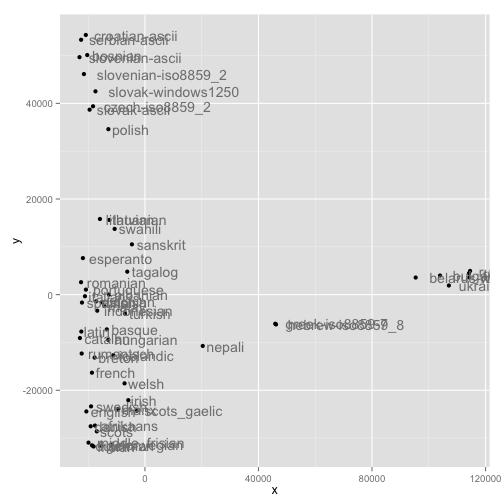
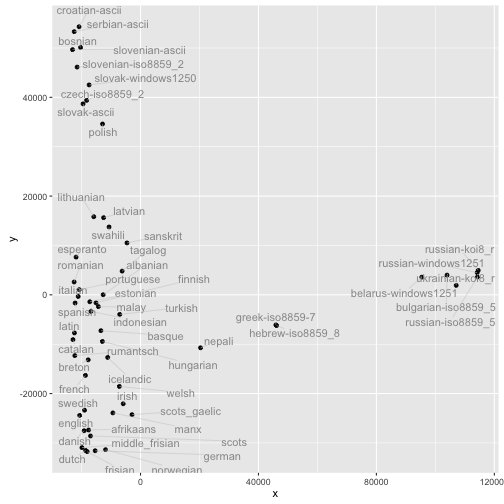
edited blog in response to timvink suggestion of library(ggrepel) to solve overlapping labels

Changed region(s): [[0.0298, 0.0, 1.0, 0.9821], [0.744, 0.7738, 0.7738, 0.8036], [0.744, 0.1786, 0.7738, 0.2083]]

diff --git a/_posts/2016-01-06-StarWarsBlog.md b/_posts/2016-01-06-StarWarsBlog.md
@@ -6,6 +6,8 @@ output: html_document
 layout: post
 ---
 
+**EDIT:** Thanks to [timvink](https://github.com/timvink) for bringing to my attention `library(ggrepel)` which can be installed via `devtools::install_github("slowkow/ggrepel")`. It fixes the overlap of labels in the first figure below. Great! This is something I have been looking for!
+
 Last year in December, in time for the big release, myself and a colleague at The Data Lab were having some fun with an Star Wars character names that we had scraped from [Wikipedia](https://en.wikipedia.org/wiki/List_of_Star_Wars_characters). Luckily for us a national outlet, The Scotsman [picked up on this](http://www.scotsman.com/edinburgh/what-nationality-would-star-wars-characters-be-in-the-real-world-1-3976537) and put out an article on their website. We had the idea one lunch time to attempt to cluster the Star Wars names by similarity. What we setlled on was to classify the names into groups. One way to do this is to employ the popular text categorisation software 'textcat'. This can be used to classify new unseen text on the basis of a labelled corpus of previous text. In this case we will use it to classify the language of the unseen text. I've put two key papers in the footnotes here which I heartily recommend, thanks to all athors and conrtibuters[^1]. I'll explain the basis of the method here briefly.
 
 First the labelled corpus of text is split into letter [n-grams](https://en.wikipedia.org/wiki/N-gram) or consecutive letter combinations. For example the word STAR would be split into S, T, A, R, ST, TA, AR, STA and TAR and STAR. An n-gram frequency distribution can be attrubuted to each class, in this case each language. The unseen text is then also split into n-grams and a frequency distribution generated. Then its a matter of using a distance measure to compare the n-grams of the unseen text to those of the labelled corpus and choosing the smallest distance. All of this is done for you in the beautiful R package `textcat` see [^1]. 
@@ -20,6 +22,7 @@ library(MASS)
 library(textcat)
 library(dplyr)
 library(ggplot2)
+library(ggrepel)
 library(pander)
 
 charNames <- read.csv("https://raw.githubusercontent.com/rmnppt/StarWars_textcat/master/Data/star_wars_dataframe.csv", 
@@ -49,8 +52,11 @@ distances <- data.frame(
 )
 
 ggplot(distances, aes(x = x, y = y)) +
-  geom_point() +
-  geom_text(aes(label = lang), hjust = -0.1, colour = grey(0.5))
+  geom_point(size = 1.5) +
+  geom_text_repel(aes(label = lang), 
+                  colour = grey(0.6), 
+                  segment.color = grey(0.8),
+                  segment.size = 0.25)
 ```
 
 ![plot of chunk unnamed-chunk-2](/figure/source/2016-01-06-StarWarsBlog/unnamed-chunk-2-1.png) 
